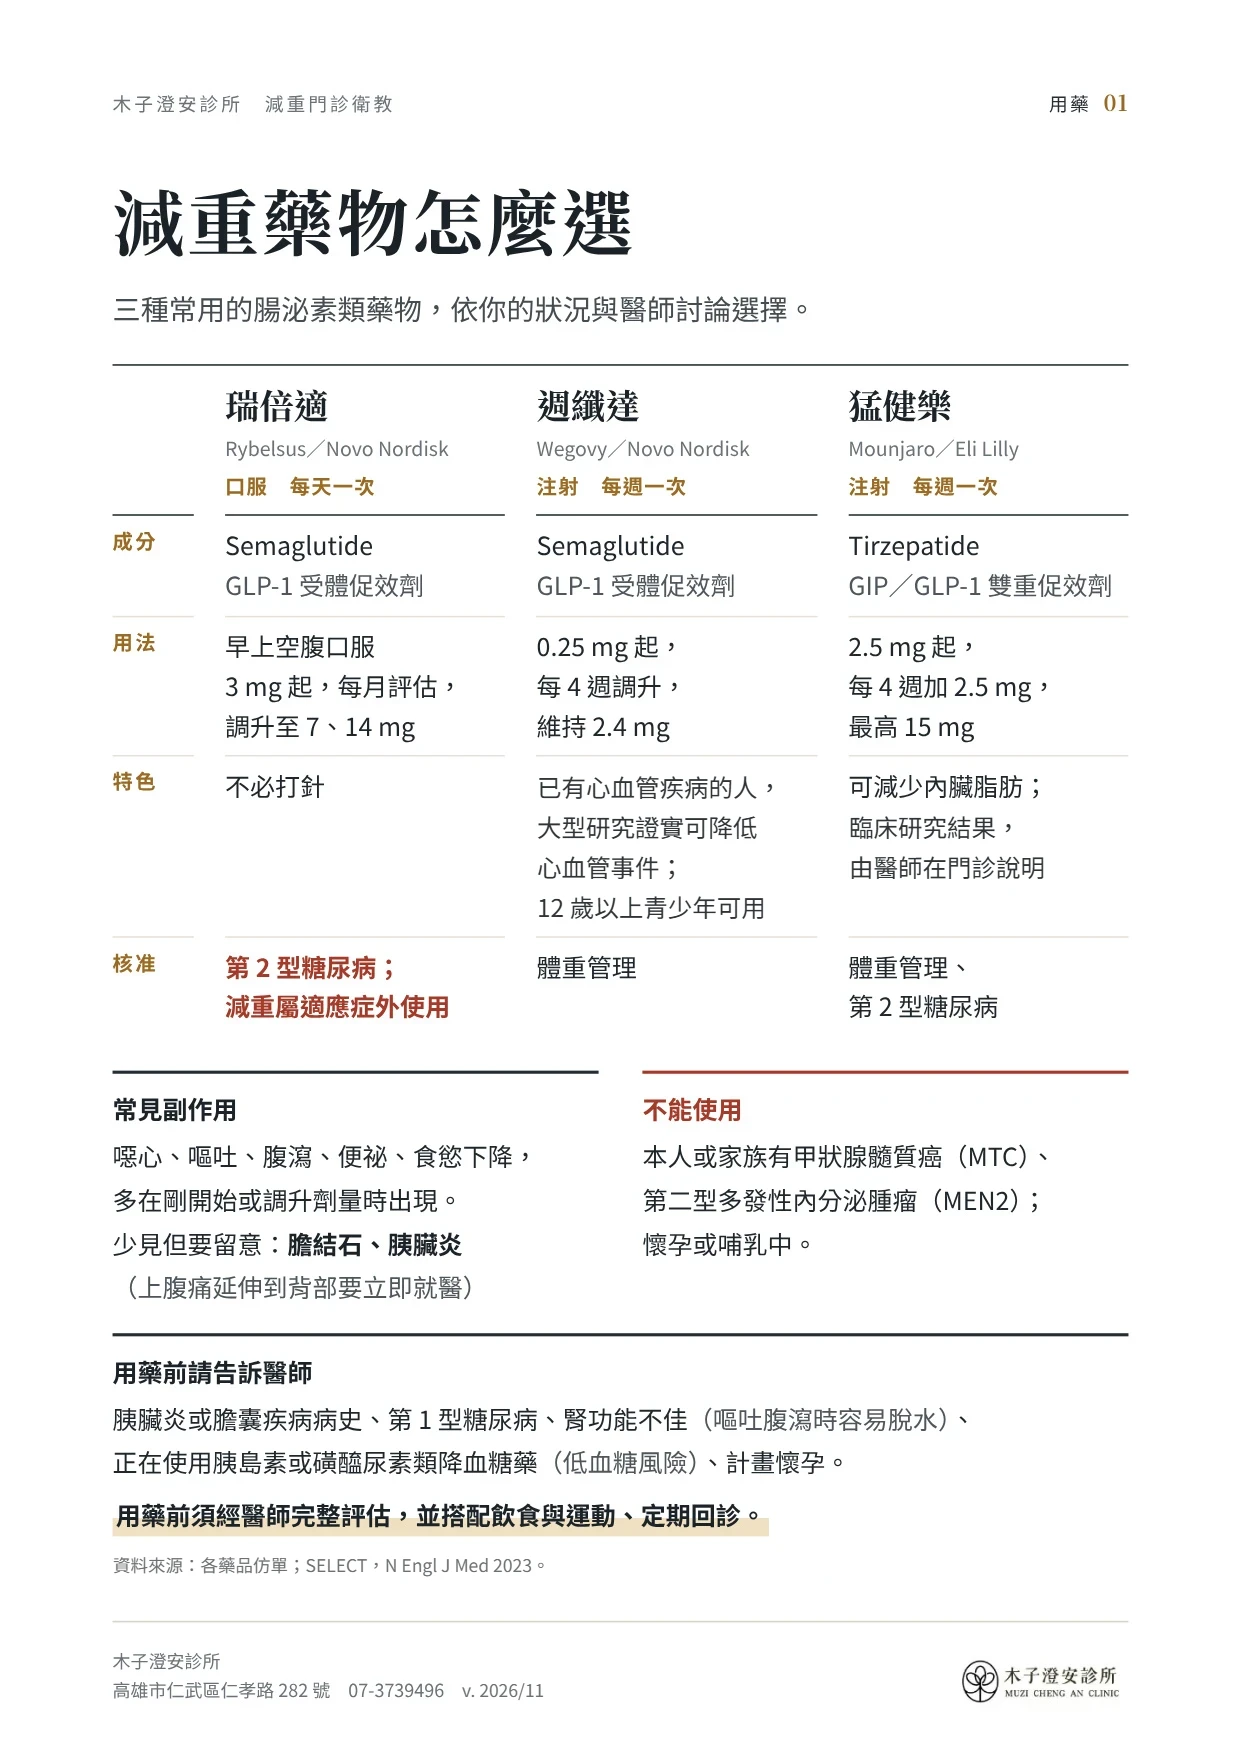
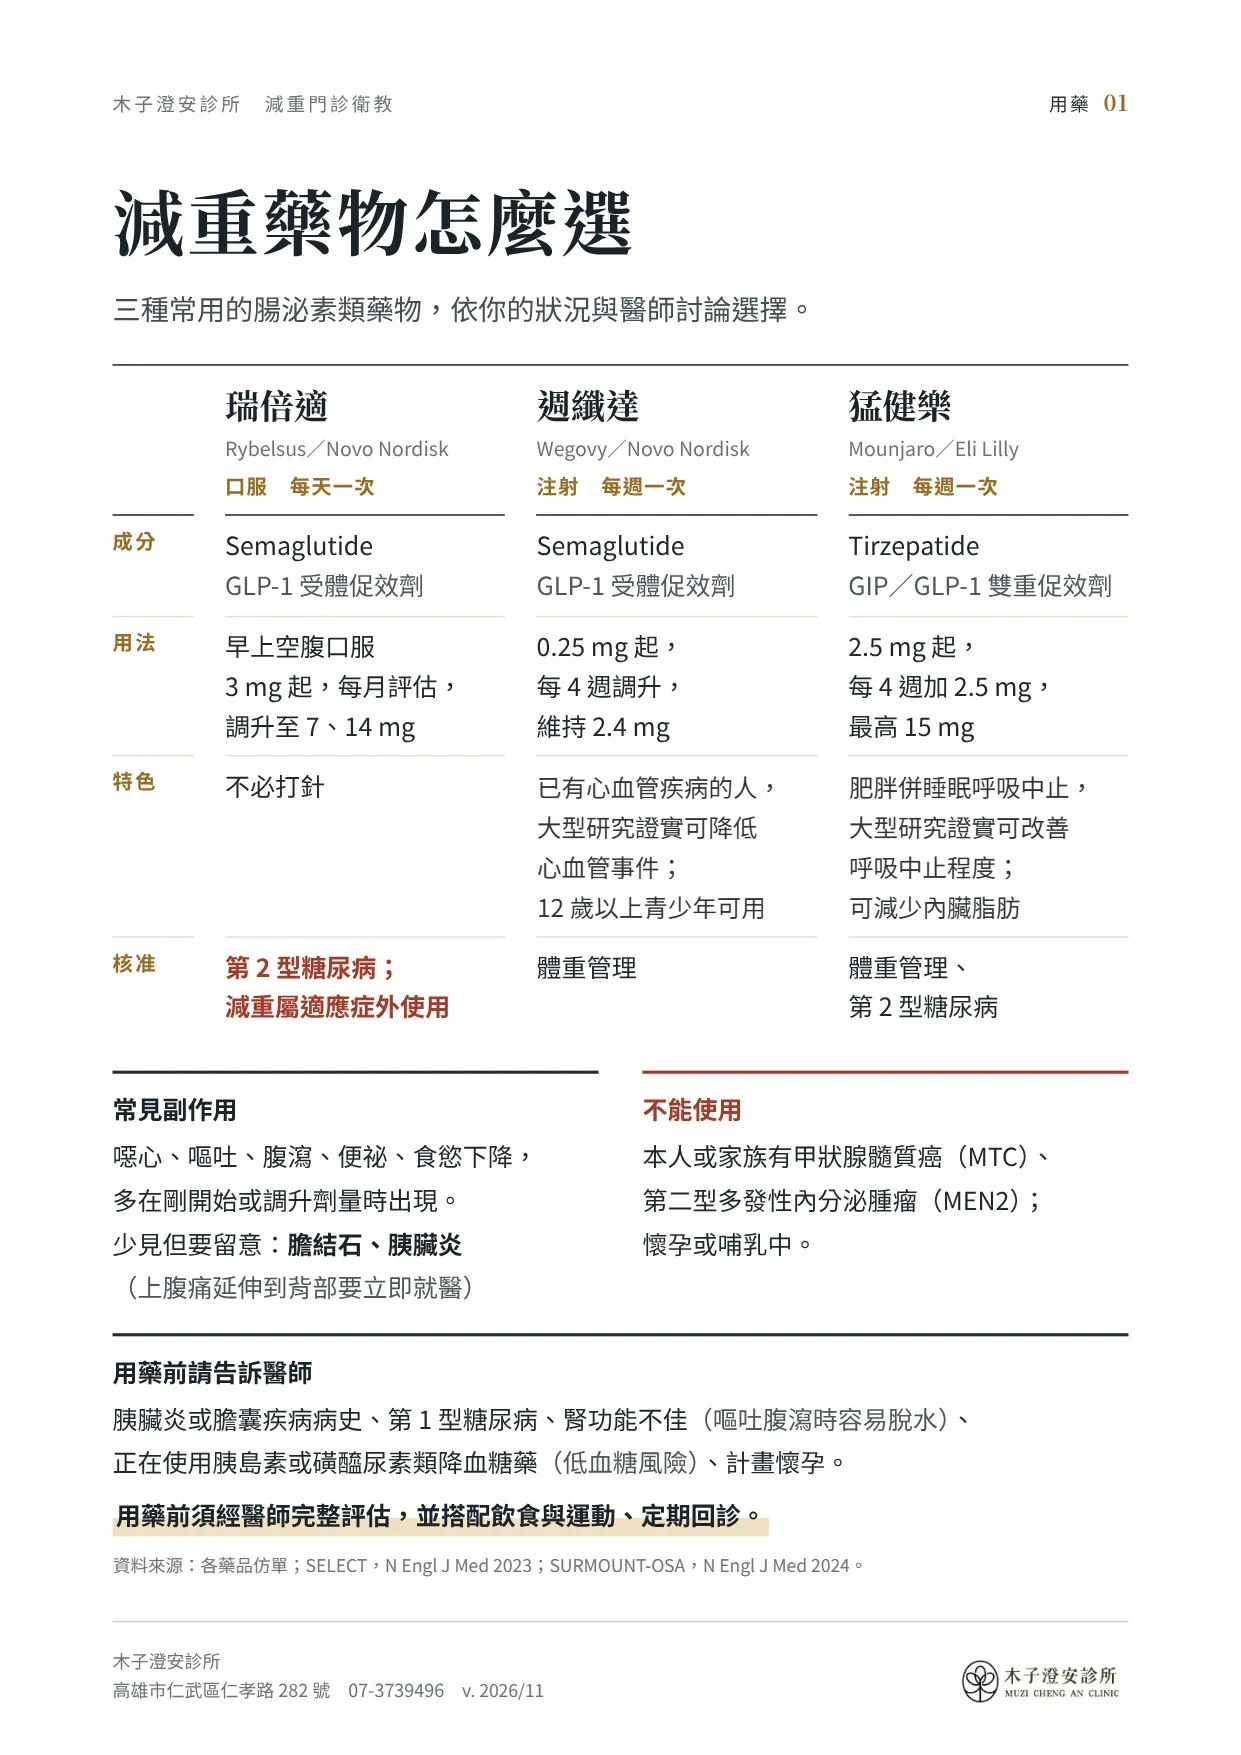
衛教圖卡：減重藥物怎麼選的猛健樂特色比照週纖達寫法，改列睡眠呼吸中止研究與內臟脂肪

Changed region(s): [[0.6737, 0.4308, 0.8574, 0.5231]]

diff --git a/edu-src/patch.html b/edu-src/patch.html
@@ -23,14 +23,16 @@ const PATCHES = {
       [537, 877, SANS(400, 24.5), INK, '心血管事件；'],
       [537, 917, SANS(400, 24.5), INK, '12 歲以上青少年可用'],
     ]},
-    // 特色欄不寫減重比例，臨床研究結果由醫師在門診口頭說明
-    {cover:[842, 805, 290, 125], text:[
-      [849, 837, SANS(400, 24.5), INK, '臨床研究結果，'],
-      [849, 877, SANS(400, 24.5), INK, '由醫師在門診說明'],
+    // 猛健樂特色比照週纖達的寫法：一項大型研究證實的效益＋一項其他特點，不寫減重比例（減重數字由醫師口頭說明）
+    {cover:[842, 762, 290, 170], text:[
+      [849, 797, SANS(400, 24.5), INK, '肥胖併睡眠呼吸中止，'],
+      [849, 837, SANS(400, 24.5), INK, '大型研究證實可改善'],
+      [849, 877, SANS(400, 24.5), INK, '呼吸中止程度；'],
+      [849, 917, SANS(400, 24.5), INK, '可減少內臟脂肪'],
     ]},
-    // 資料來源拿掉 SURMOUNT-5（卡面已不引用該研究數據）
+    // 資料來源：SURMOUNT-5 換成 SURMOUNT-OSA（卡面不再引用減重比例）
     {cover:[108, 1548, 900, 34], text:[
-      [113, 1572, SANS(400, 17.5), SUB, '資料來源：各藥品仿單；SELECT，N Engl J Med 2023。'],
+      [113, 1572, SANS(400, 17.5), SUB, '資料來源：各藥品仿單；SELECT，N Engl J Med 2023；SURMOUNT-OSA，N Engl J Med 2024。'],
     ]},
   ],
   // 療程 04：5% 評估改到「維持劑量用滿約 3 個月」，與療程 01、02 一致（週纖達第 17 週才到維持劑量）

diff --git a/revision.js b/revision.js
@@ -12,5 +12,5 @@ const REVISION = {
 /* 工作台左下角只顯示最新的一個日期（上面五個取最晚的），點一下會跳出這次改了什麼。
    每次改版就把這裡整份換成「當次」的簡短說明，一行一件事；不要把前幾次的說明留著累加。 */
 const REVISION_NOTE = [
-  '衛教圖卡「減重藥物怎麼選」：猛健樂特色欄不再寫減重比例，臨床研究結果由醫師在門診說明'
+  '衛教圖卡「減重藥物怎麼選」：猛健樂特色欄比照週纖達，改寫睡眠呼吸中止研究與內臟脂肪，不寫減重比例'
 ];

diff --git a/sw.js b/sw.js
@@ -7,7 +7,7 @@
    外部程式庫與字型（網址含版本號，不會變）：有快取就直接用。
    檢驗截圖辨識（Tesseract.js）從 jsDelivr 載入，用過一次後斷網也能辨識。
    工作台開啟後會把所有衛教與表單圖片預先存下，斷網時也能顯示與列印。 */
-const CACHE = 'tools-v44';
+const CACHE = 'tools-v45';
 const CORE = [
   './', 'index.html',
   'mount.js', 'revision.js',
